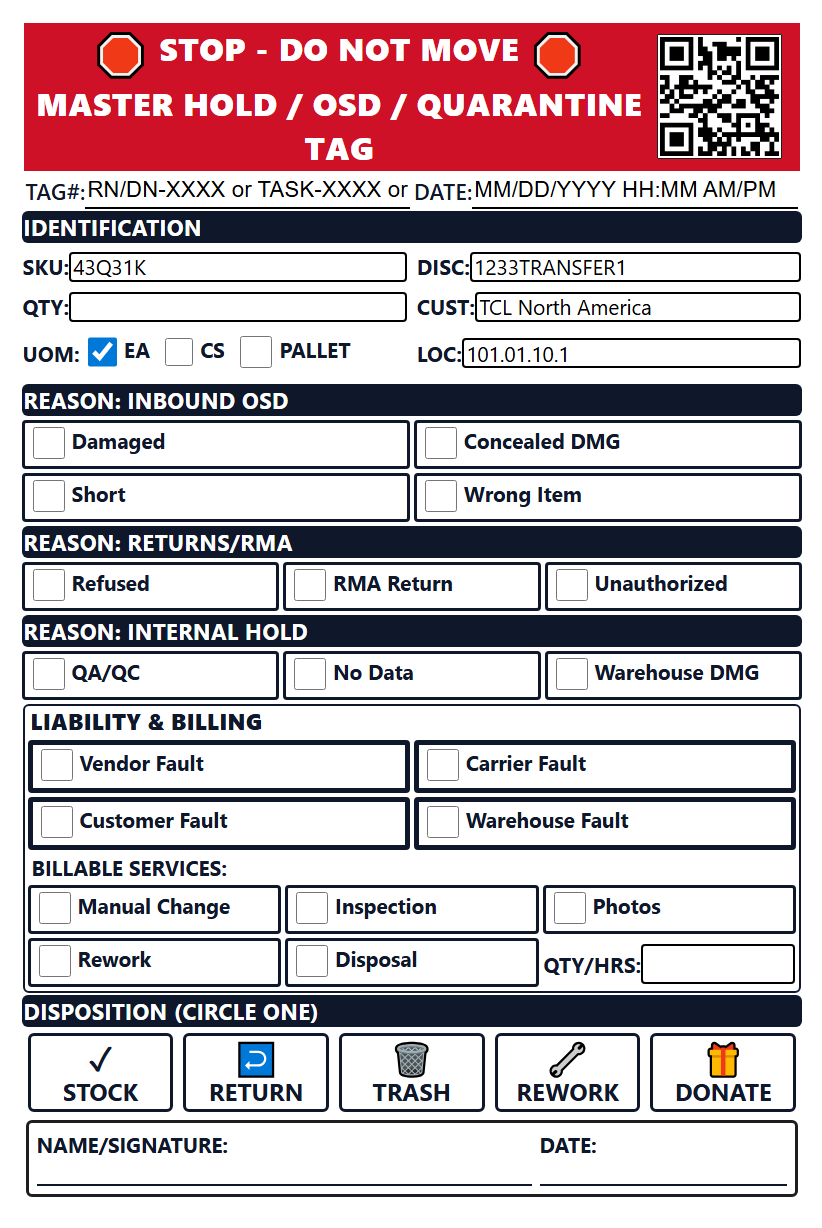
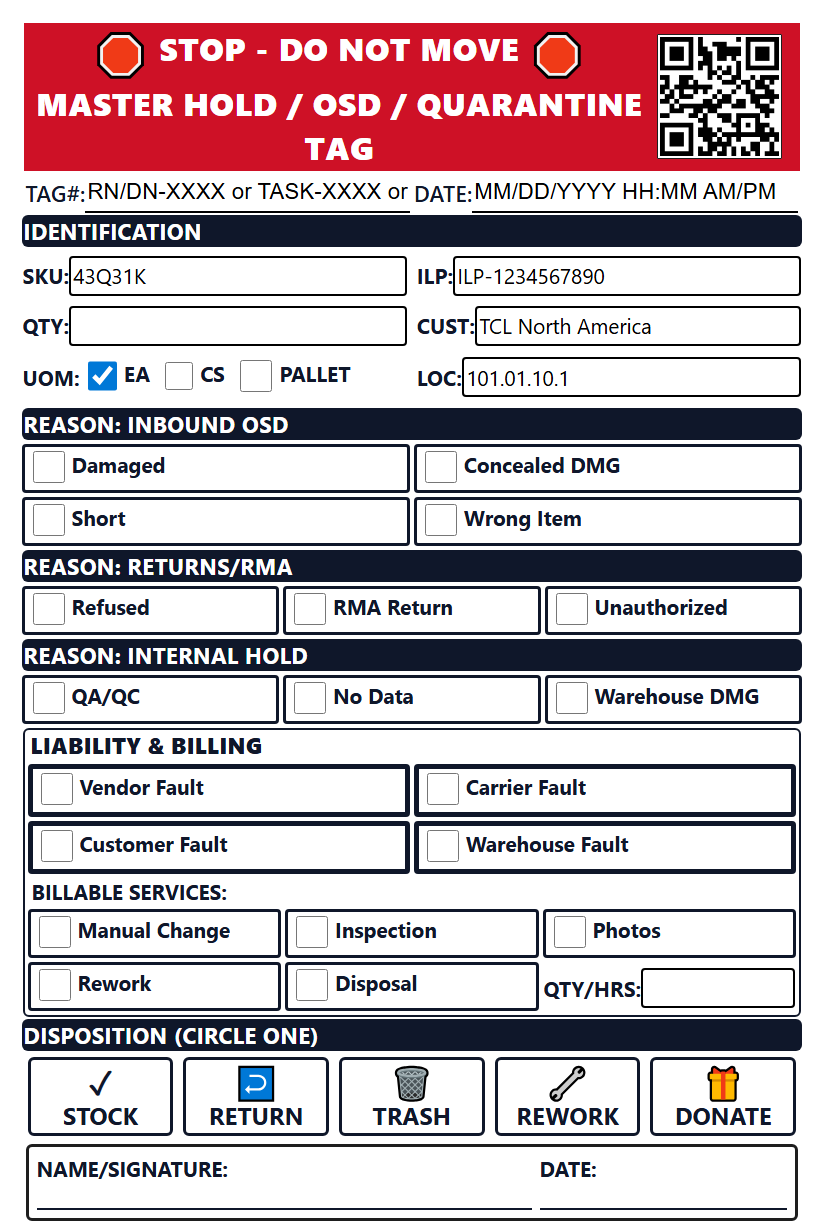
edit hold OSD ticket for handwrite use

diff --git a/src/pages/hold_OSD_quarantine_card.html b/src/pages/hold_OSD_quarantine_card.html
@@ -51,8 +51,8 @@
           <input type="text" value="43Q31K">
         </div>
         <div class="form-field">
-          <label>Disc:</label>
-          <input type="text" value="1233TRANSFER1">
+          <label>ILP:</label>
+          <input type="text" value="ILP-1234567890">
         </div>
         <div class="form-field">
           <label>QTY:</label>

diff --git a/src/styles/hold_osd_quarantine.css b/src/styles/hold_osd_quarantine.css
@@ -212,6 +212,12 @@ body {
   grid-column: 1 / -1;
 }
 
+input[type="text"]{
+  height: 40px;
+  width: auto;
+}
+
+
 /* Checkbox Groups */
 .checkbox {
   text-align: center;
